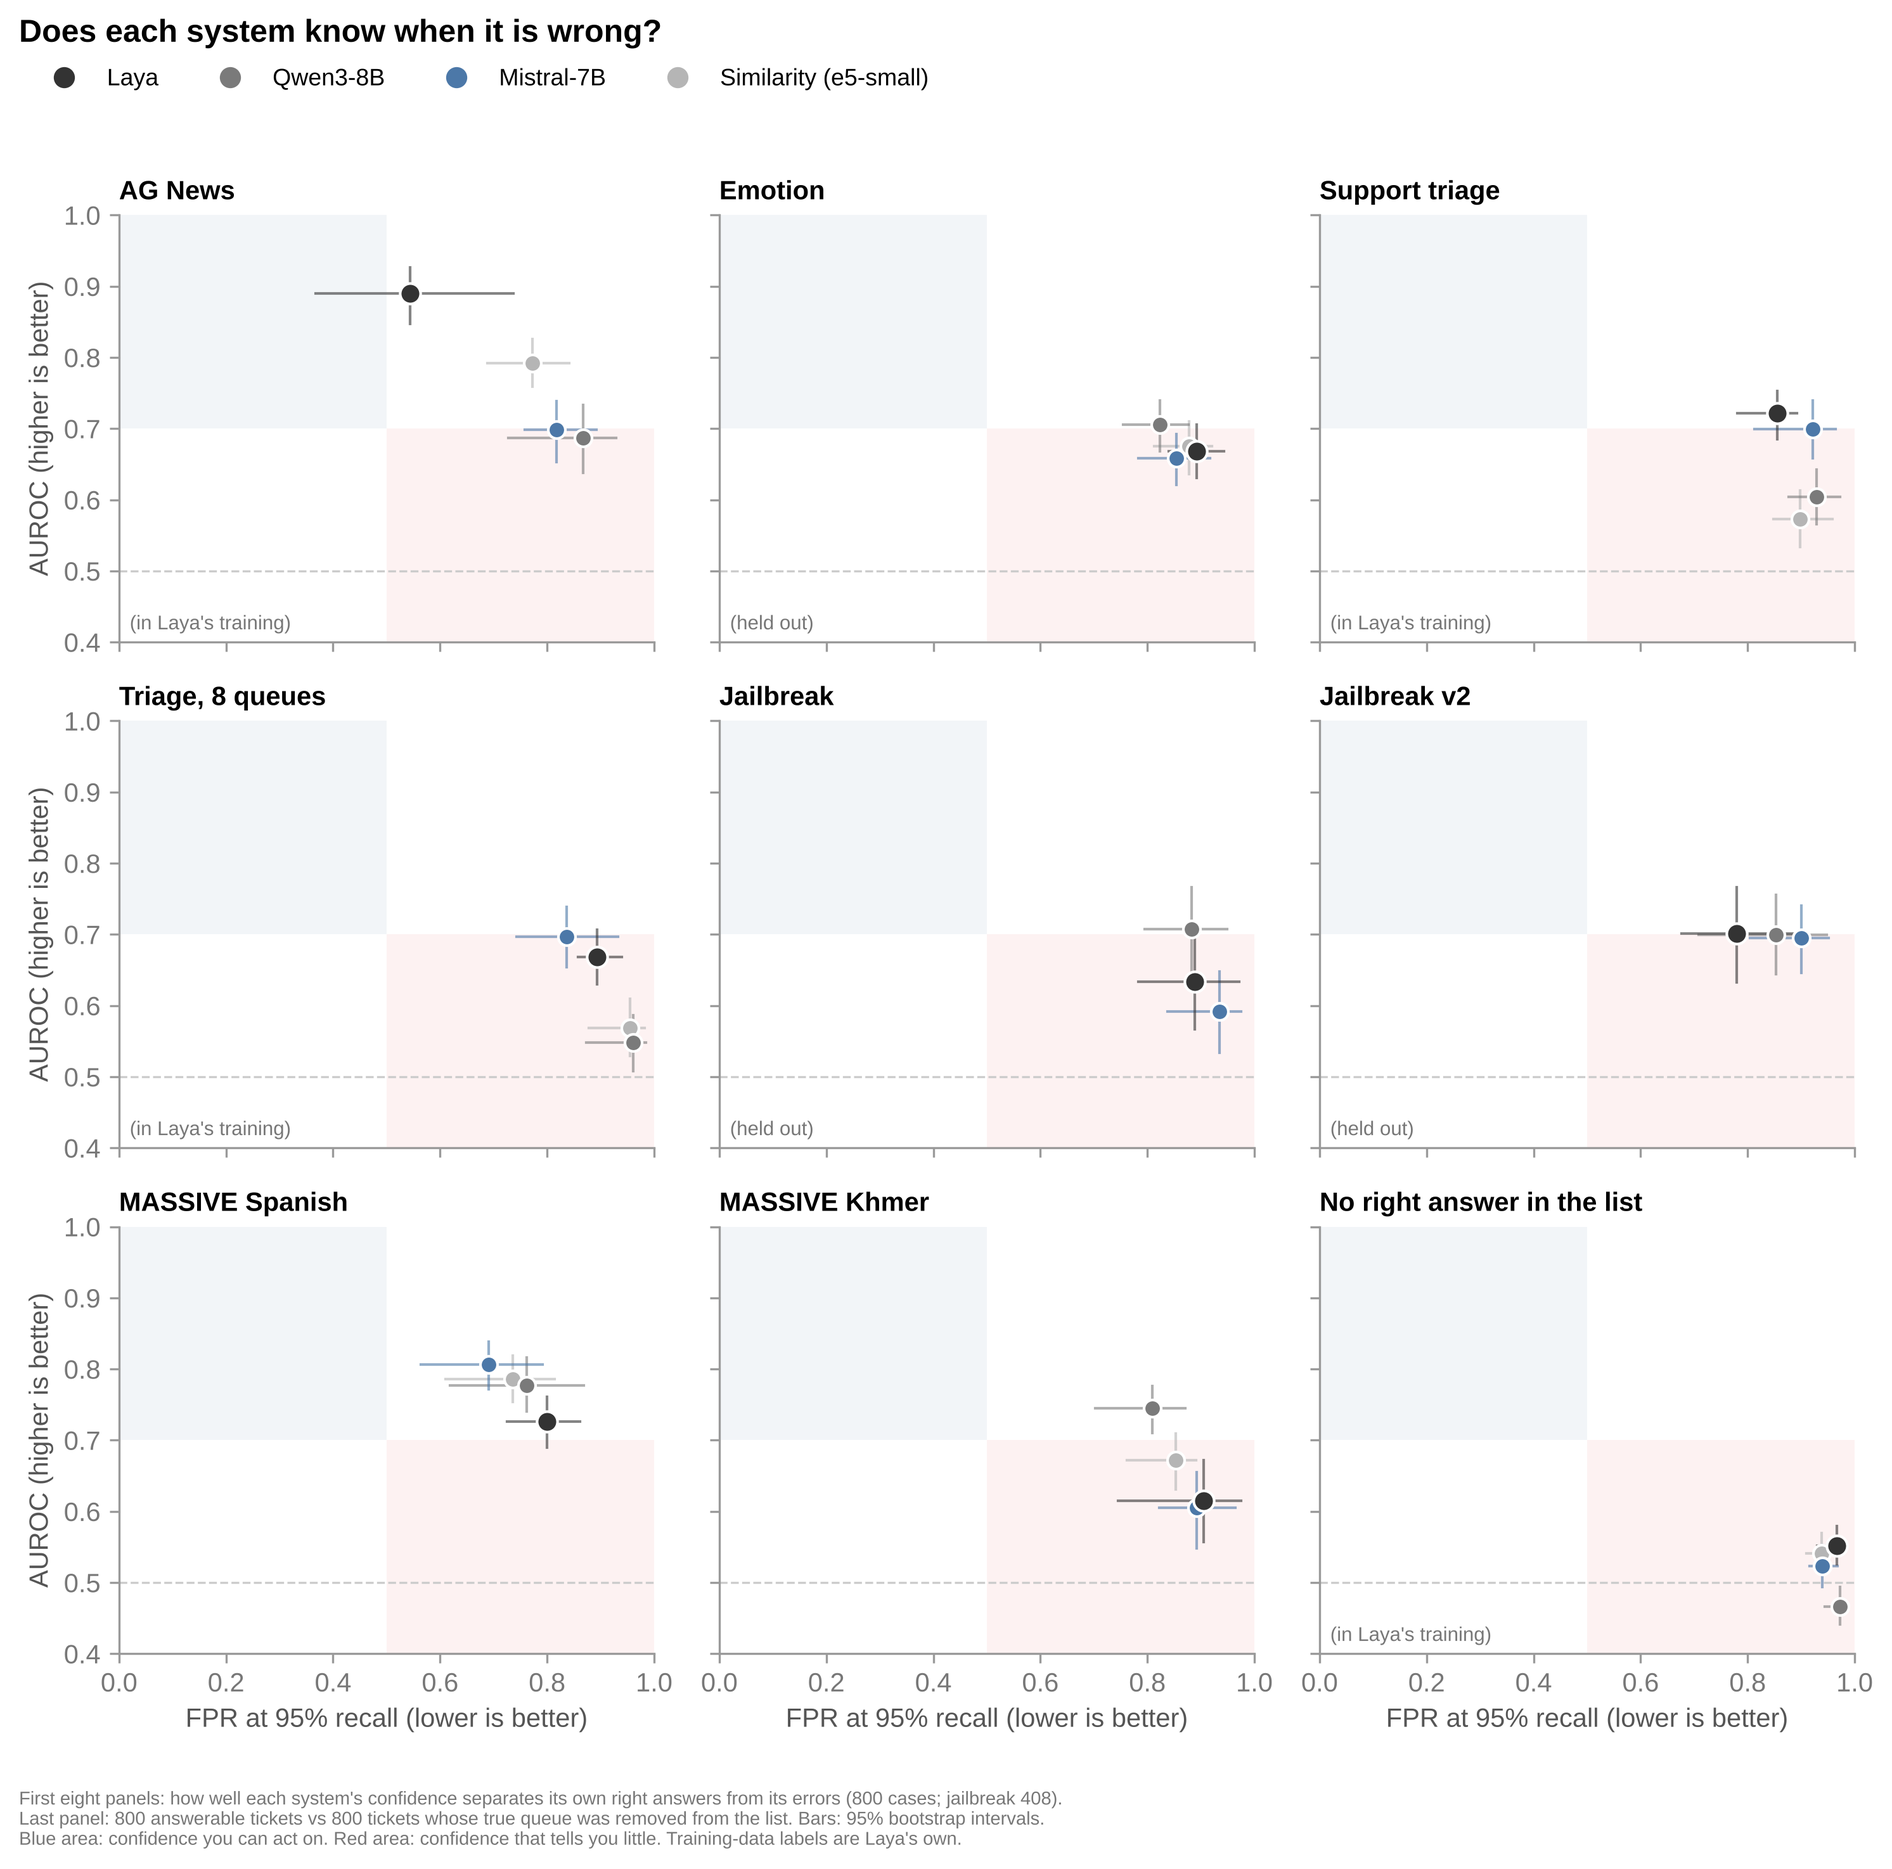
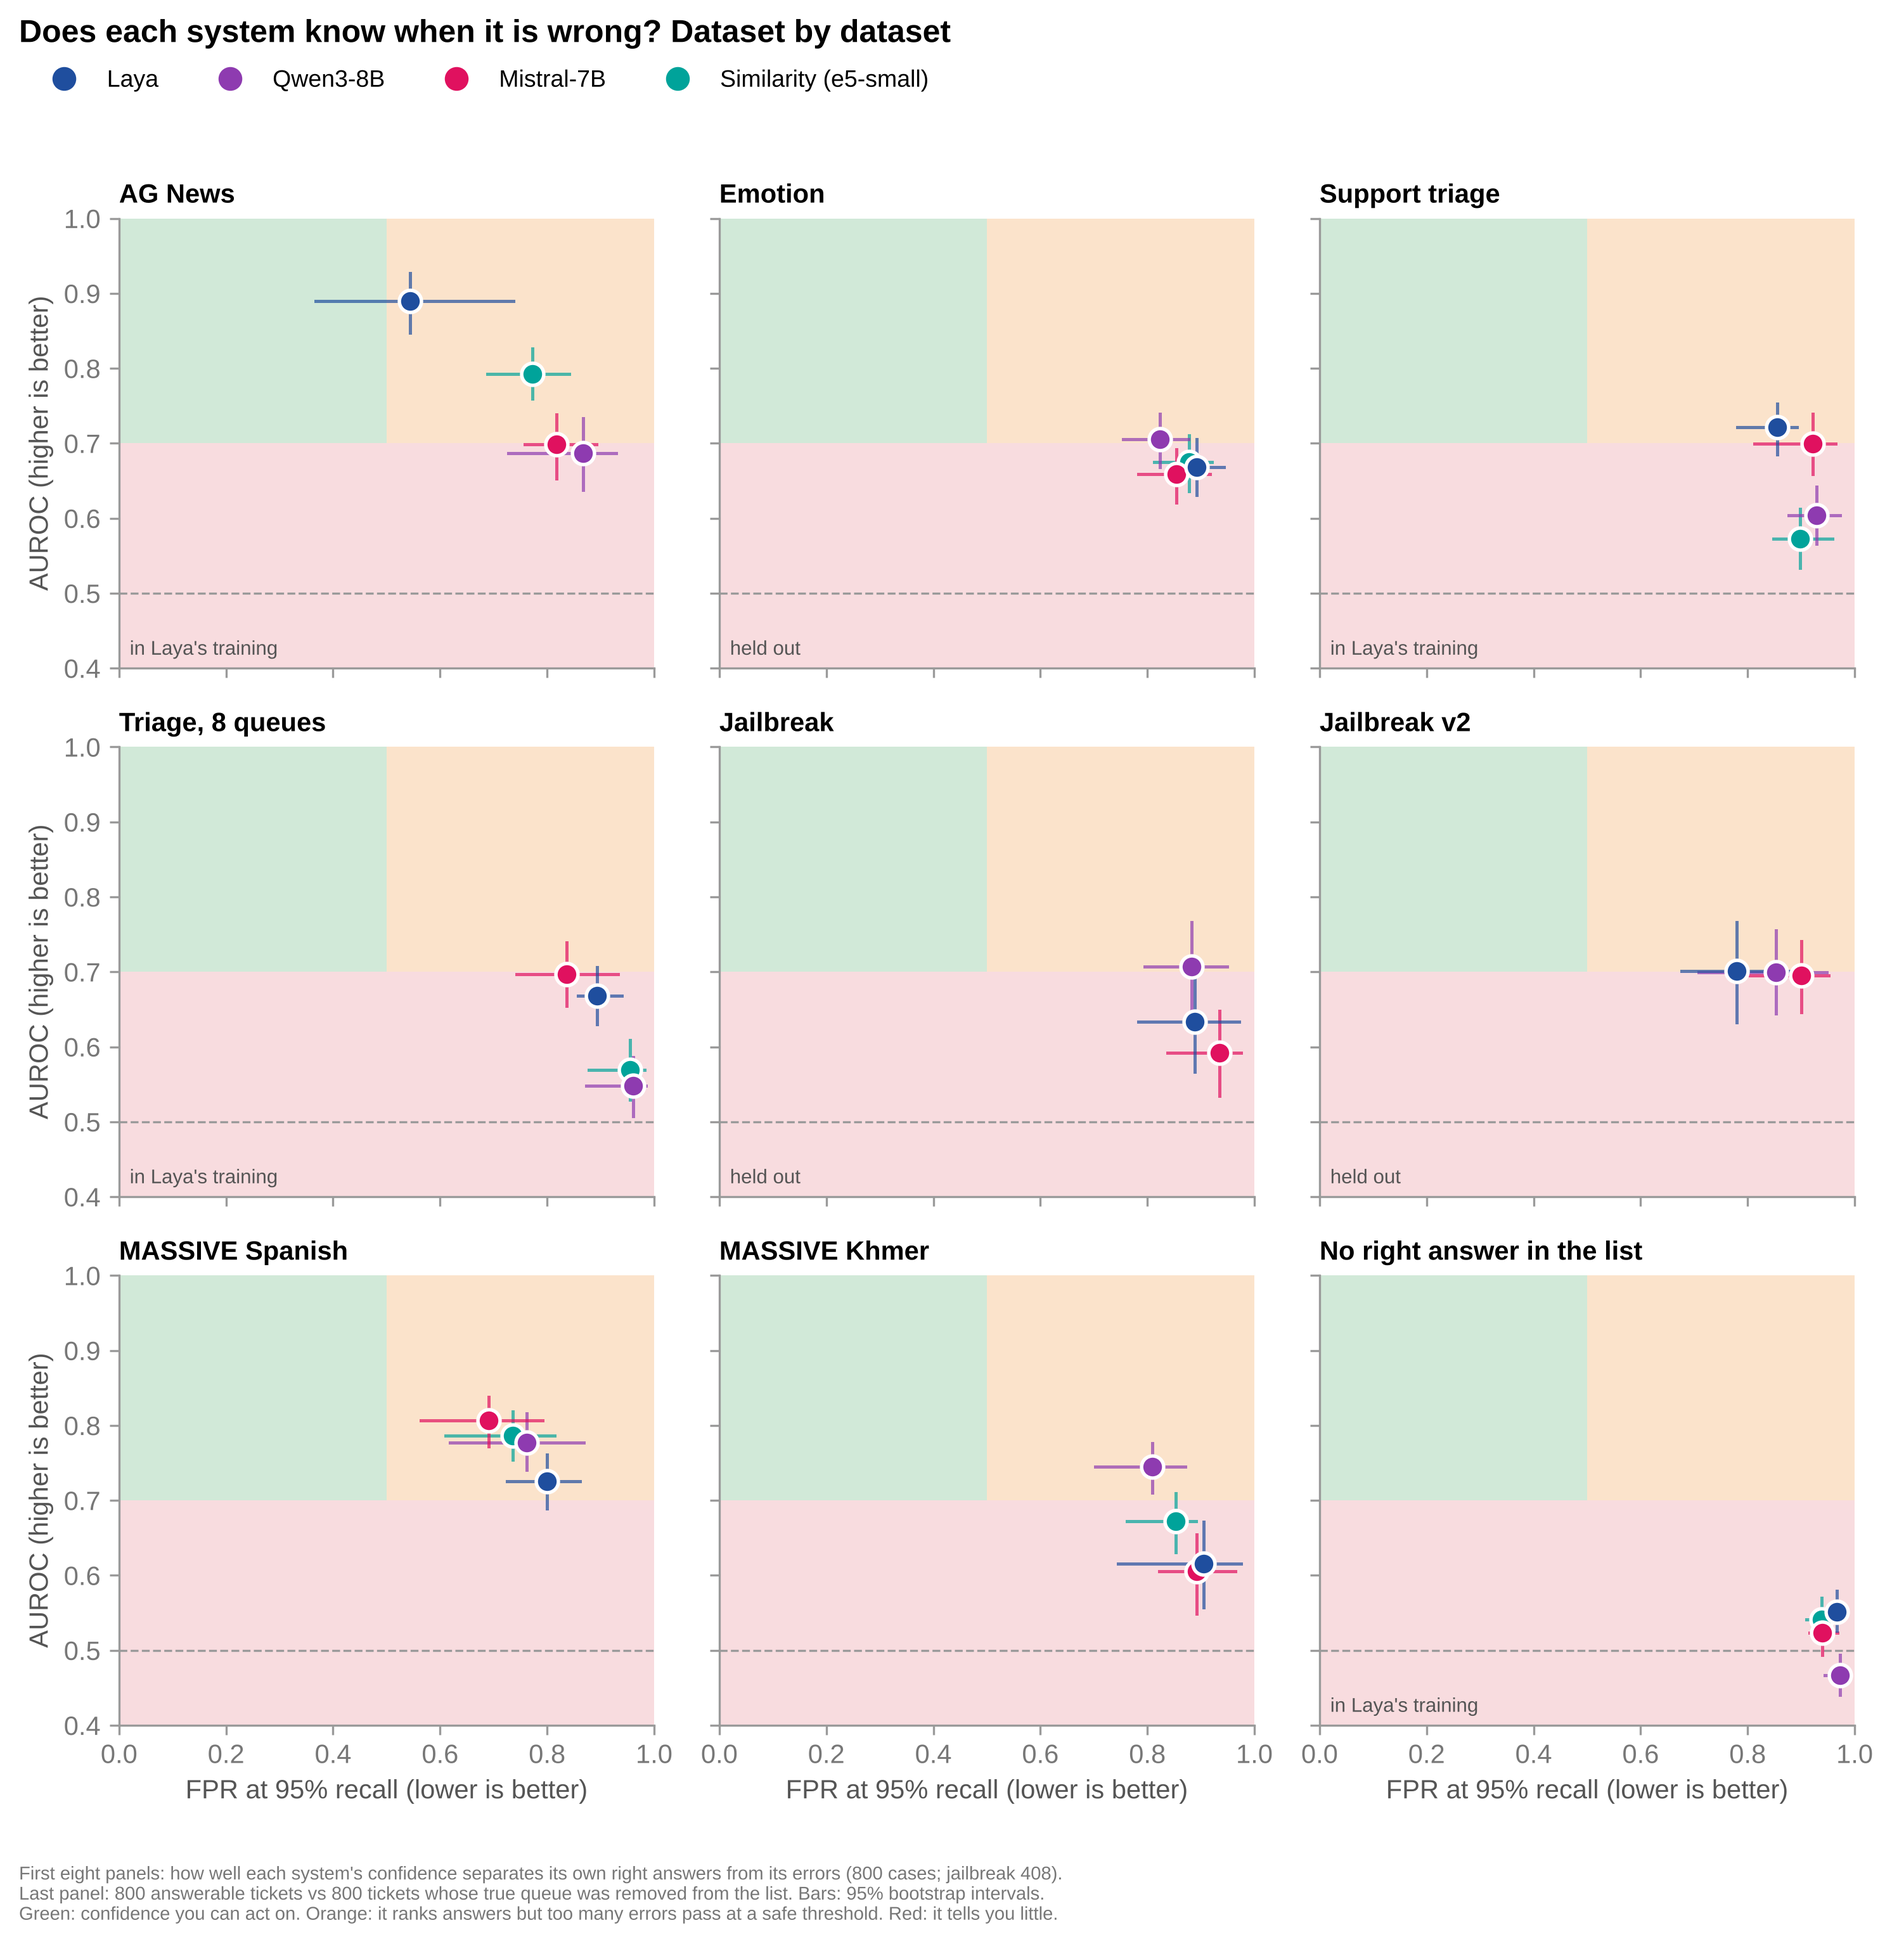
Add summary chart, coloured zones and brighter palette

diff --git a/README.md b/README.md
@@ -14,17 +14,23 @@ Accuracy does not tell you **which** answers you can trust. If you put a model i
 
 Points 2 and 3 are not specific to Laya. Two general-purpose LLMs and a similarity baseline fail in the same way. The issue is what the benchmark measures: a model can win on accuracy and still give you no usable signal about when to trust it.
 
-![Does each system know when it is wrong?](figures/auroc_vs_fpr95.png)
+![Average of nine datasets](figures/summary_auroc_vs_fpr95.png)
+
+On average over the nine datasets, all four systems land in the same place: their confidence ranks answers only slightly better than chance, and at a threshold that keeps 95% of the right answers, 84% to 87% of the errors still pass.
+
+![Dataset by dataset](figures/auroc_vs_fpr95.png)
 
 ![Published vs measured accuracy](figures/accuracy_published_vs_measured.png)
 
-## How to read the main figure
+## How to read the figures
 
-Each point is one system on one dataset.
+In the dataset-by-dataset figure each point is one system on one dataset. In the summary figure the large points are averages.
 
 - **AUROC** (vertical): the chance that a random right answer gets more confidence than a random wrong one. 0.5 means confidence carries no information. Higher is better.
 - **FPR at 95% recall** (horizontal): set the threshold so you keep 95% of the right answers. This is the share of wrong answers that still pass. Lower is better.
-- The blue area is where confidence is good enough to act on. The red area is where it tells you little.
+- **Green**: AUROC above 0.7 and FPR below 0.5. Confidence you can act on.
+- **Orange**: AUROC above 0.7 but FPR above 0.5. Confidence ranks the answers, but at a safe threshold too many errors still pass.
+- **Red**: AUROC below 0.7. Confidence tells you little.
 
 ## What was tested
 
